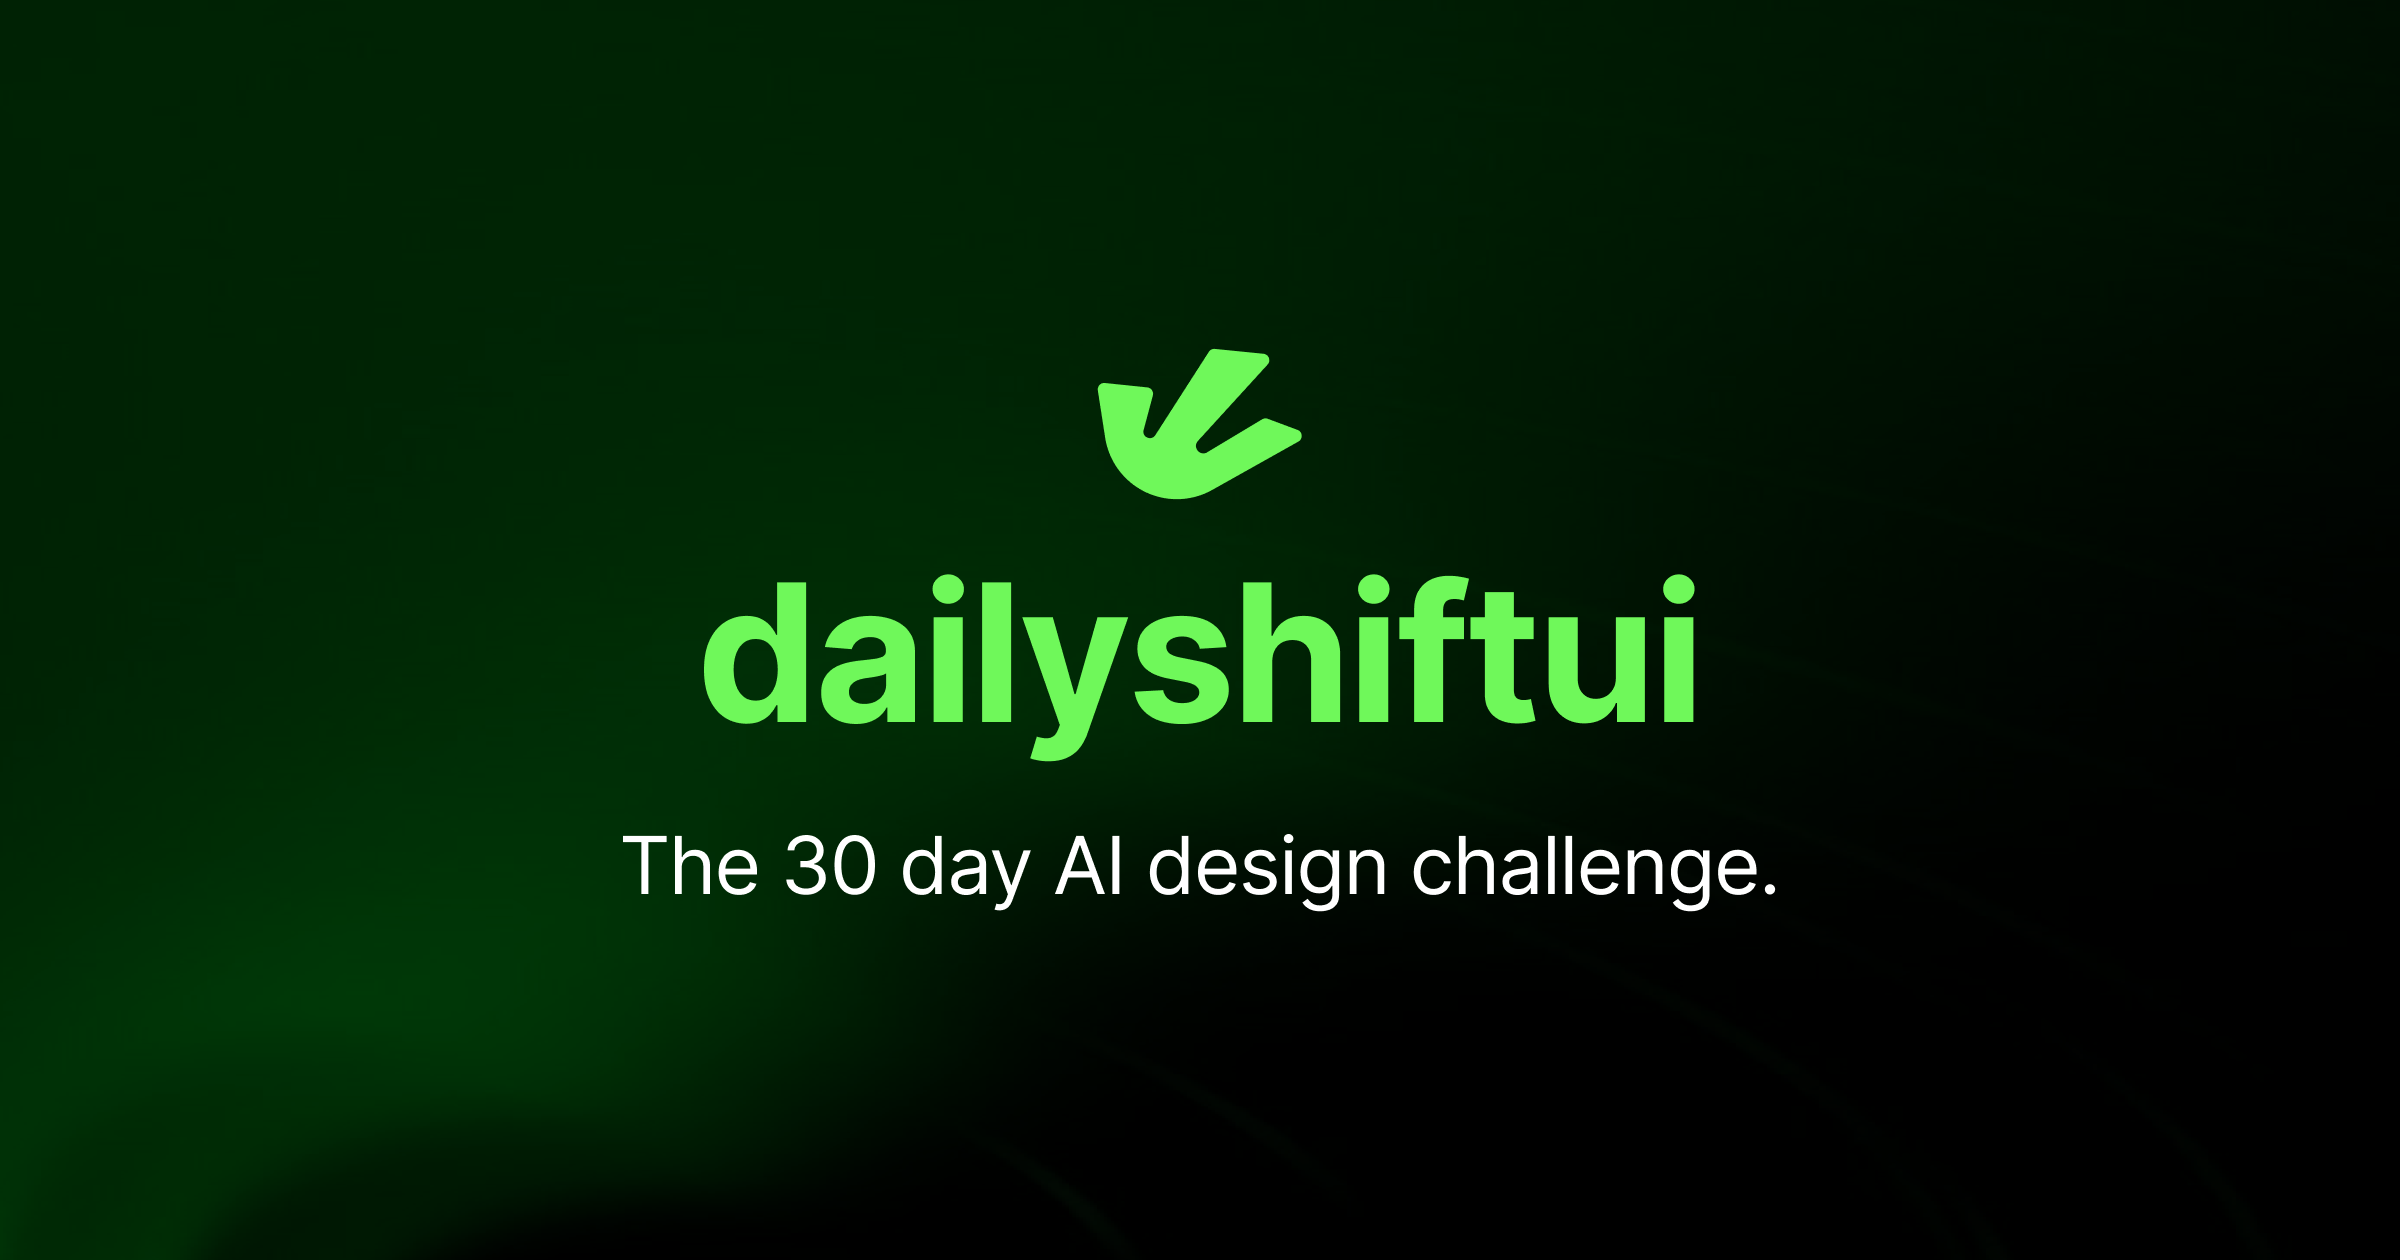
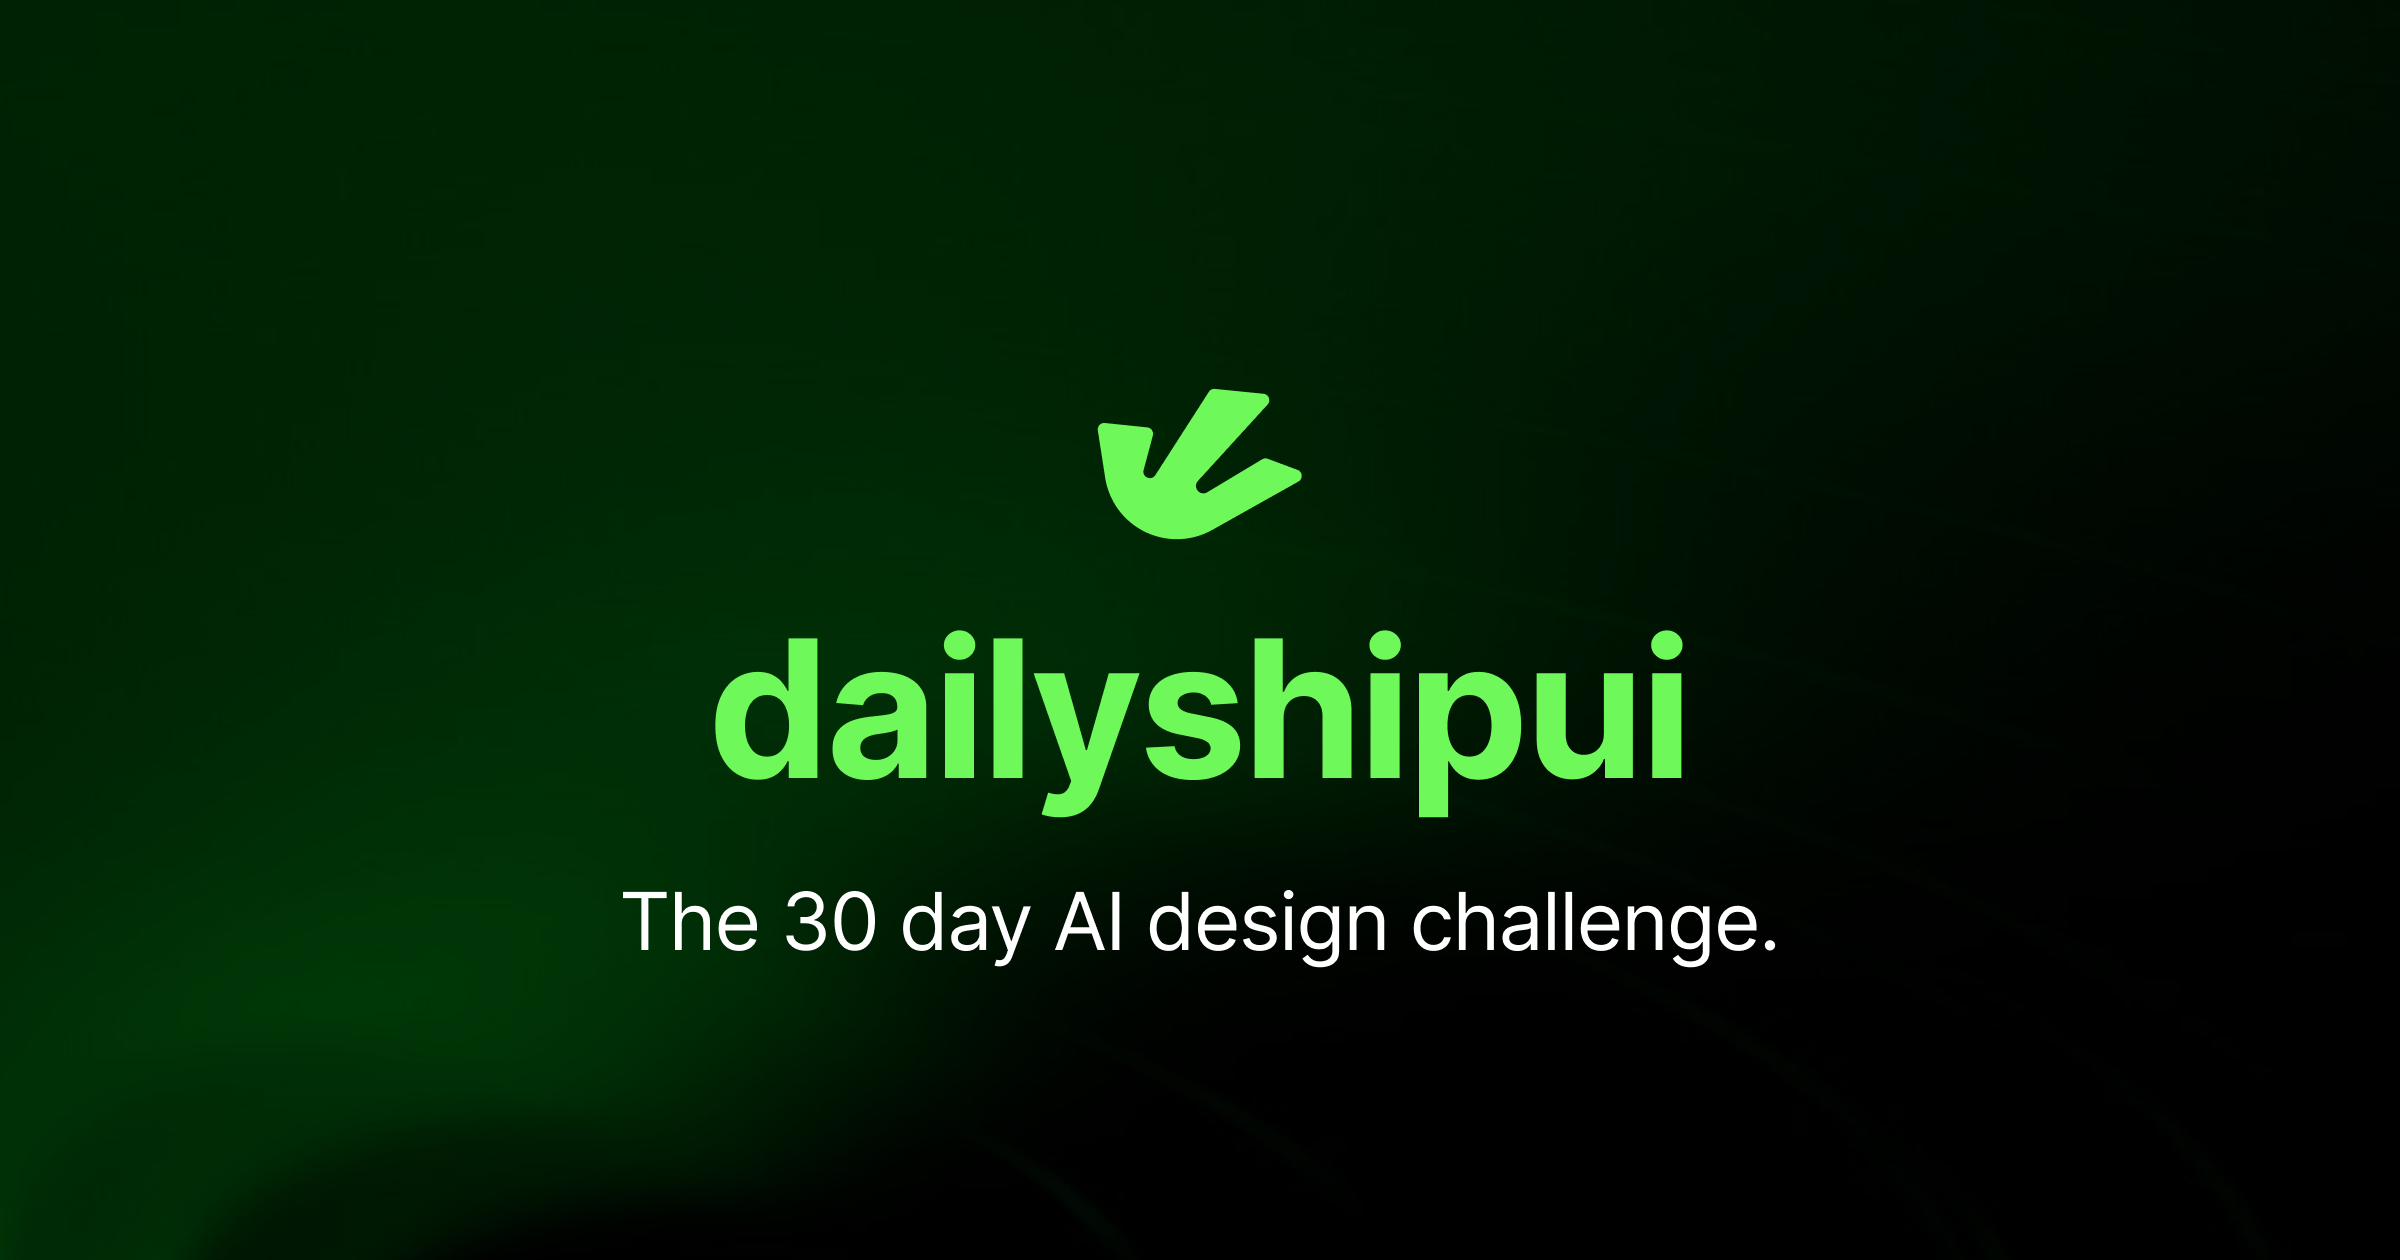
Update opengraph.png from refreshed OG asset; bump OG cache bust to v=4.
Made-with: Cursor

Changed region(s): [[0.25, 0.4333, 0.75, 0.7738], [0.4375, 0.2786, 0.5625, 0.4333]]

diff --git a/app/layout.tsx b/app/layout.tsx
@@ -45,7 +45,7 @@ const siteDescription =
 const ogImageAlt = "DailyShipUI - The 30 day AI design challenge";
 
 /** Twitter önbelleğini kırmak için (dosya aynı; sunucu query’yi yok sayar). */
-const OG_CACHE_BUST = "v=3";
+const OG_CACHE_BUST = "v=4";
 
 const ogImageUrl = (() => {
   const cdn = process.env.NEXT_PUBLIC_OG_IMAGE_URL?.trim();
